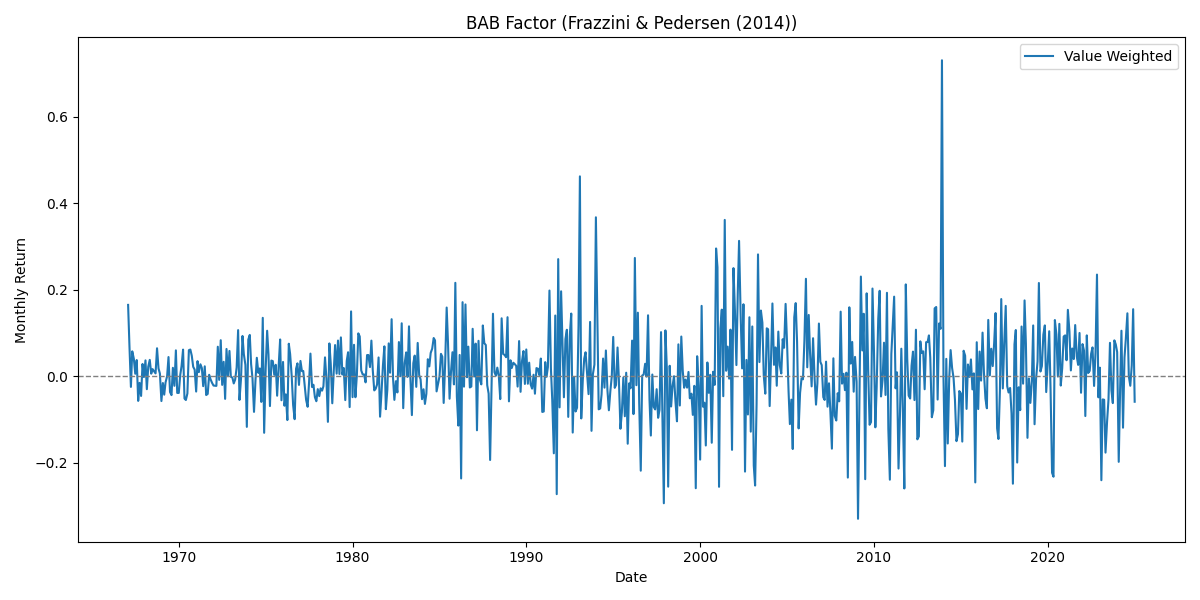
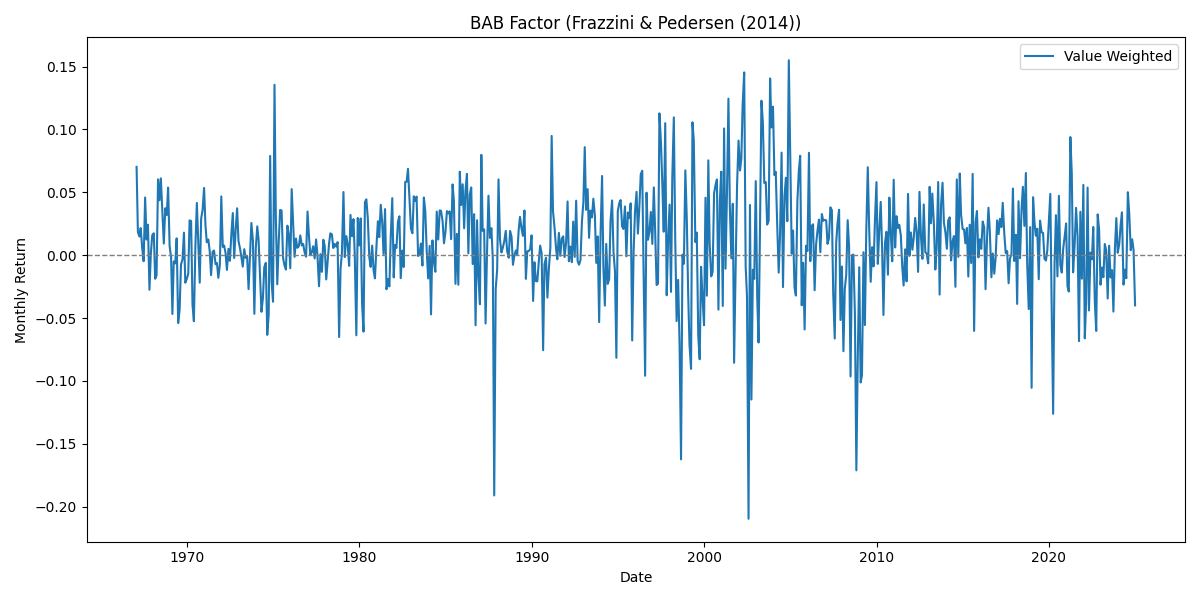
Add Factors' CAPM Statistics
Add monthly return, annual volatility, annual alpha with t-stat, sharpe ratio, beta, idiosynctratic volatility, market return and market volatility

diff --git a/main.py b/main.py
@@ -17,12 +17,13 @@ import BAB
 import plots
 import momentum
 import idio_vol
+import CAPM_stats
 
 pd.set_option('display.max_columns', None)
 pd.set_option('display.max_rows', None)
 
 #---------------------------------------------
-# Downloading Data
+# Downloading Data (Run this block only once)
 #---------------------------------------------
 """
 db=wrds.Connection(wrds_username='javadkashizadeh')
@@ -50,25 +51,28 @@ data.to_csv('raw_data.csv', sep=';', index=False)
 #-------------------------------------------------------
 project_path = 'G:/My Drive/EPFL/first_year/semester3/Investment/project'
 
-raw_data = pd.read_csv("raw_data.csv",sep=";",nrows=10000)
-sic_data = pd.read_csv("sic_data.csv",sep=";",nrows=10000)
+raw_data = pd.read_csv("raw_data.csv",sep=";")
+sic_data = pd.read_csv("sic_data.csv",sep=";")
 
 data = raw_data.copy()
+a = time.time()
 data = rolling_beta.beta_calculator(data, parquet_path=f'{project_path}/beta_parquet.parquet')
-
+b= time.time()
+print(f'Rolling Beta Calculation took {b-a: 0.2f} seconds')
 #----------------------------------------------------
 # Betting Against Beta (Frazzini & Pedersen (2014))
 #----------------------------------------------------
 BAB_dataset = data.copy()
 BAB_dataset, BAB_factor = BAB.bab_return(BAB_dataset)
 plots.signal_returns(BAB_factor, 'date', 'BAB_return', 'BAB Factor (Frazzini & Pedersen (2014))', 'Value Weighted', saving_path=f'{project_path}/BAB.png')
-
+CAPM_stats.statistics(BAB_factor, 'BAB_return', BAB_dataset)
 #--------------------------------------------------------
 # Momentum Strategy (Jegadeesh & Titman (1993))
 #---------------------------------------------------------
 mom_dataset = data.copy()
 mom_factor = momentum.mom_return(mom_dataset)
 plots.signal_returns(mom_factor, 'date', 'MOM_return', 'Momentum Factor (Jegadeesh & Titman (1993))', 'Value Weighted', saving_path=f'{project_path}/momentum.png')
+CAPM_stats.statistics(mom_factor, 'MOM_return', mom_dataset)
 
 #--------------------------------------------------------
 # Idiosyncratic Strategy (Ang, Hodrick, Xing, and Zhang (2006))
@@ -76,3 +80,4 @@ plots.signal_returns(mom_factor, 'date', 'MOM_return', 'Momentum Factor (Jegadee
 idio_vol_dataset = data.copy()
 idio_vol_factor = idio_vol.ivol_return(idio_vol_dataset)
 plots.signal_returns(idio_vol_factor, 'date', 'IVOL_return', 'Idiosyncratic Factor (Ang, Hodrick, Xing, and Zhang (2006))', 'Value Weighted', saving_path=f'{project_path}/idio_vol.png')
+CAPM_stats.statistics(idio_vol_factor, 'IVOL_return', idio_vol_dataset)

diff --git a/CAPM_stats.py b/CAPM_stats.py
@@ -1,0 +1,41 @@
+import numpy as np
+import statsmodels.api as sm
+import pandas as pd
+
+def statistics(factor_df, factor_return, market_df, market_return='Rm_e', date='date'):
+
+    tmp = pd.merge(factor_df[[date, factor_return]], market_df[[date, market_return]].drop_duplicates(), on=date, how='left')
+    tmp = tmp.dropna()
+    tmp['const'] = 1
+
+    model = sm.OLS(tmp[factor_return], tmp[['const', market_return]]).fit()
+
+    alpha_annual = model.params['const'] * 12
+    beta = model.params[market_return]
+    alpha_tstat = model.tvalues['const']
+
+    factor_std_annual = tmp[factor_return].std() * np.sqrt(12)
+    factor_mean = tmp[factor_return].mean()
+    sharpe = factor_mean / factor_std_annual
+    idio_vol = (tmp[factor_return] - model.predict()).std() * np.sqrt(12)
+    market_rp = tmp[market_return].mean() * 12
+    market_vol = tmp[market_return].std() * np.sqrt(12)
+
+    results = {
+        'monthly_mean': factor_mean,
+        'annual_std': factor_std_annual,
+        'annual_alpha': alpha_annual,
+        'alpha_tstat': alpha_tstat,
+        'sharpe_ratio': sharpe,
+        'beta': beta,
+        'idio_vol': idio_vol,
+        'market_rp': market_rp,
+        'market_vol': market_vol
+    }
+
+    stats = pd.DataFrame([results])
+    pd.options.display.float_format = '{:,.4f}'.format
+    print(stats.T.rename(columns={0: 'Value'}))
+
+    return results
+

diff --git a/rolling_beta.py b/rolling_beta.py
@@ -3,7 +3,9 @@ import numpy as np
 import pyarrow as pa
 import pyarrow.parquet as pq
 import os
+from numba import njit
 
+@njit
 def cov_numba(Rn_e, Rm_e, window=60, min_periods=36):
     n = len(Rn_e)
     beta = np.full(n, np.nan)
@@ -54,6 +56,7 @@ def beta_calculator(data, parquet_path='beta_chunks.parquet', window=60, min_per
         group = group.sort_values(by='date')
         Rn = np.ascontiguousarray(group['Rn_e'].values, dtype=np.float64)
         Rm = np.ascontiguousarray(group['Rm_e'].values, dtype=np.float64)
+
         beta_vals = cov_numba(Rn, Rm)
 
         beta_df = group[['permno', 'date']].copy()
